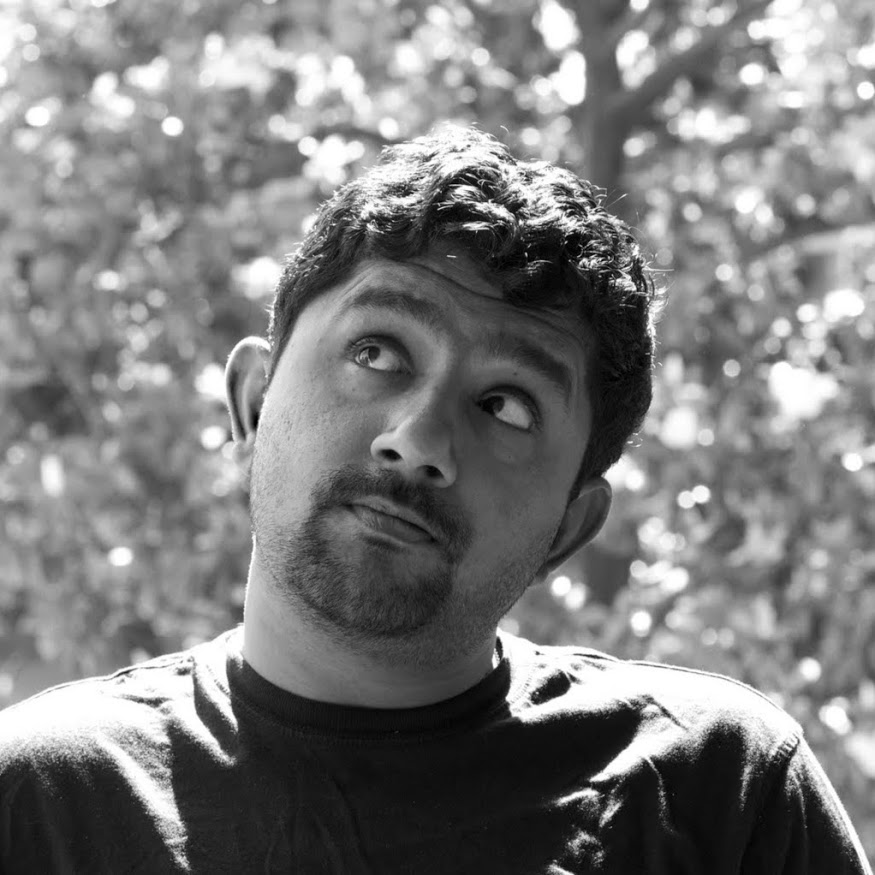
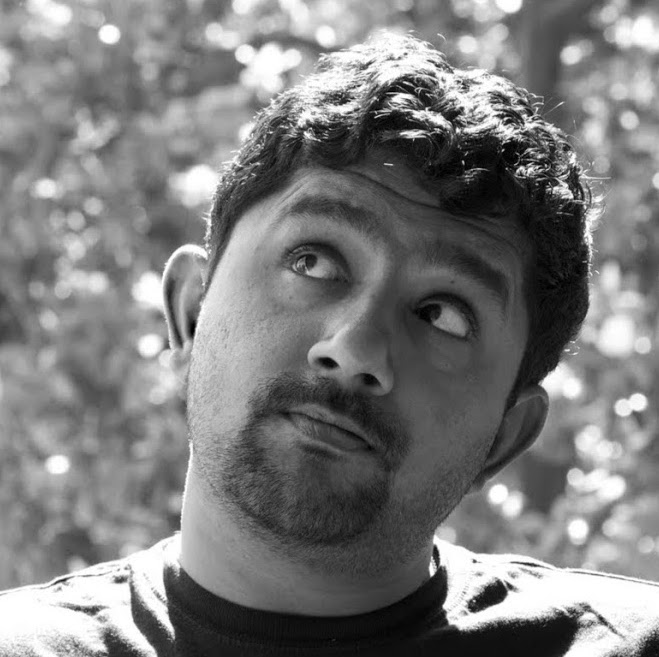
Added picture in about page and a few other misc edits

diff --git a/src/components/about.js b/src/components/about.js
@@ -1,13 +1,13 @@
 import React from 'react';
-// import me from '../me.jpg';
+import me from '../images/me.jpg';
 import places from '../images/places-I-lived.svg';
 
 const AboutPage = () => {
   return (
     <div className="container"> 
+      <img src={me} className="myPic"/>
        <p>Hi there! <span role="img" aria-label="Hello">👋🏾</span></p>
-       <section className="aboutMe">
-          <p>
+       <p>
             I am a Christian, husband to my lovely wife, a soon-to-be dad, and a web developer living in the Bay area. 
           </p>
 
@@ -25,6 +25,8 @@ const AboutPage = () => {
           <p>You can find more about me on <a target="_blank" rel="noopener noreferrer" href="https://twitter.com/sathishpaul">Twitter</a> 
               &nbsp; or <a href="https://www.linkedin.com/in/sathish-paul-leo-396b7b1" target="_blank" rel="noopener noreferrer">LinkedIn</a>.
           </p>
+       <section className="aboutMe">          
+          
           
        </section>
 
@@ -33,7 +35,7 @@ const AboutPage = () => {
        <img src={places} alt="places I have lived" />
        
        <p>Made with <span role="img" aria-label="love">❤</span> using <a href="https://www.gatsbyjs.org/" target="_blank" 
-        rel="noopener noreferrer">GatsbyJS</a> and deployed on <a href="https://www.netlify.com/" target="_blank" 
+        rel="noopener noreferrer">Gatsby</a> and deployed on <a href="https://www.netlify.com/" target="_blank" 
         rel="noopener noreferrer">Netlify</a>.</p>
     </div>
   );

diff --git a/src/pages/work.js b/src/pages/work.js
@@ -2,17 +2,29 @@ import React from 'react';
 import {Link} from 'gatsby';
 import Layout from '../components/layout';
 import Navbar from '../components/Navbar';
-import resume from '../images/resume.pdf'
+import resume from '../images/resume.pdf';
+
 const WorkPage = () => (
   <Layout>
   <Navbar />
   <div>
-    <p>
+    <p>I am a UI Engineer working at Oracle in the Bay area.
       This page provides details about my work history. If you would like to look at my resume, 
       click <a href={resume} target="_blank" rel="noopener noreferrer">here</a>.
     </p>
 
-    <Link to="/">Go back to the homepage</Link>
+
+    <p>
+      I have had the good fortune of working with some awesome people who have helped me shape my career and grow as a UI Engineer. If you are reading this, there is a good chance that you are one of those people. Thank You! 
+      <span rel="img" aria-label="smile">😀</span>
+    </p>
+
+    <h3>Experience</h3>
+    <h4>Staff Software Engineer - Oracle Corporation</h4>
+
+
+
+    <Link to="/">Home</Link>
   </div>
 </Layout>
 );

diff --git a/src/components/site.css b/src/components/site.css
@@ -19,3 +19,9 @@
   margin: 0 0.5rem;
   cursor: pointer;
 }
+
+.myPic {
+  width: 200px;
+  float: left;
+  margin: 0 1rem 0 0;
+}
